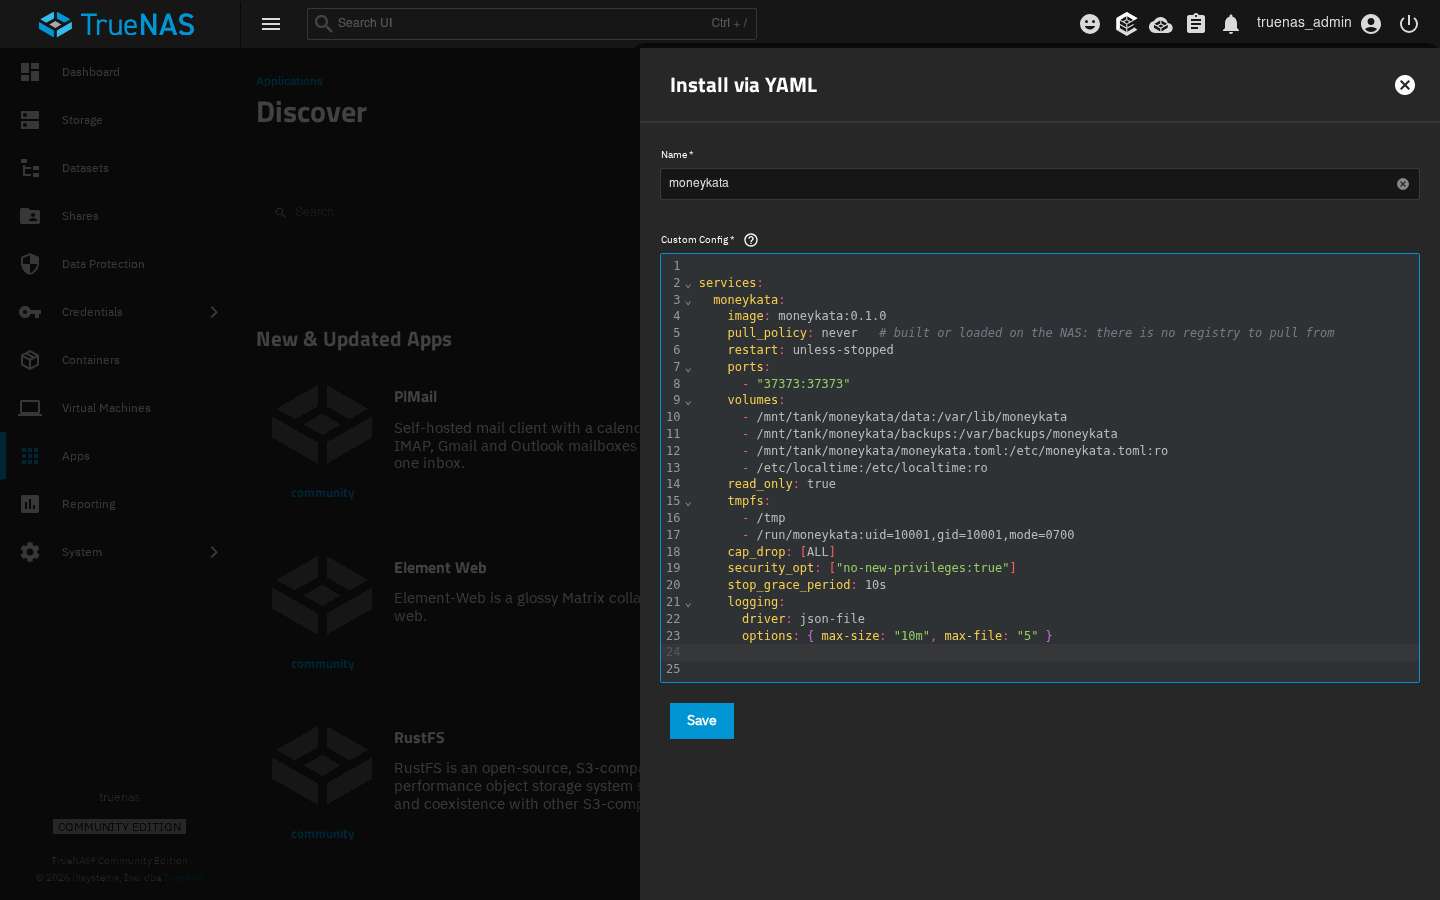
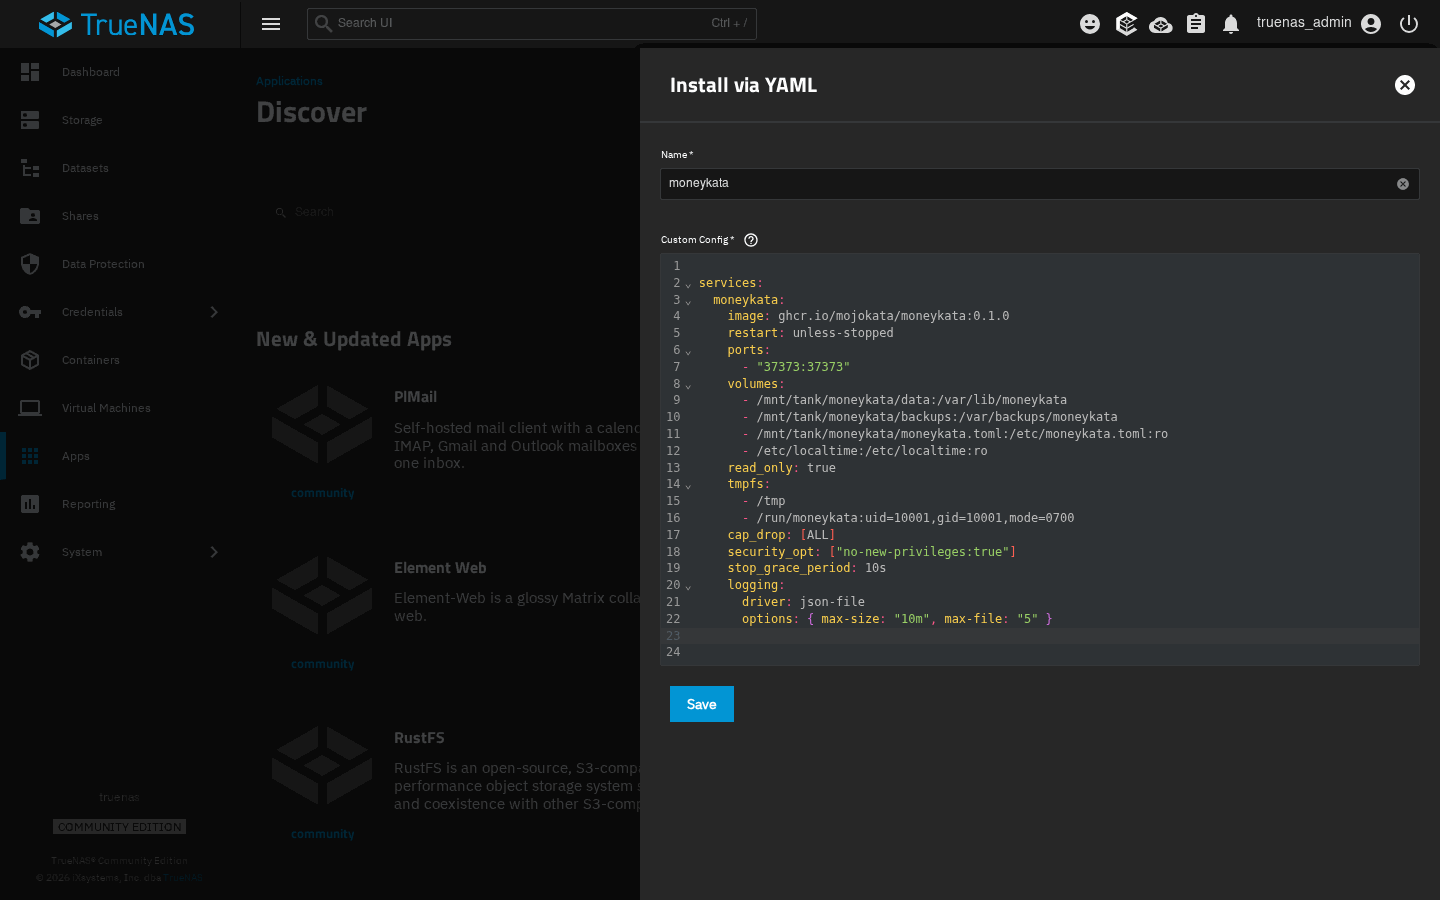
DEPLOY.md: what TrueNAS shows, from a run of §4-7 with the welcome's image
Run on TrueNAS Community Edition 25.10.7 with an image built from this branch: a refused
start beside a database without its keyring (exit 78) and §7's start-over; a fresh install,
Running before anyone opened it; the welcome and Verify key; a reboot, locked and Running,
unlocked with `docker exec … keys unlock`; an Edit of the app's YAML, back locked.

- §4.3: the install doesn't wait for the container; the app shows Running within seconds,
  before the welcome (a new screenshot). The Install via YAML screenshot is retaken with the
  YAML as it stands.
- §6: Edit App YAML shows the YAML as TrueNAS keeps it, its keys sorted: change the tag on
  the `image:` line.
- §7: a refused start shows Stopped, with no container to show the log of: the log is
  `sudo docker logs` in System › Shell, and the line's paths are the container's. Stop and
  Start for starting over are under Controls in the app's row.

web/check: every step ok but the generated mockup's drift, whose crawl timed out on one
screen ("drew nothing in 20 s", no diff); build.py --check run again alone: passed.

Changed region(s): [[0.5, 0.3422, 0.8125, 0.7156], [0.4688, 0.7467, 0.5312, 0.84]]

diff --git a/docs/DEPLOY.md b/docs/DEPLOY.md
@@ -9,9 +9,9 @@ relies on goes behind its reverse proxy instead ([`operations.md`](operations.md
 keys and the connector.
 
 The steps were run on Proxmox VE 9.2 with a Debian 13 guest and Docker Engine 29, and on
-TrueNAS Community Edition 25.10.7, with the image built on each host; their screenshots are from
-those runs, and §5's are from a server built from the same source. A release's images are
-published on ghcr.io (§2), and a host pulls them in place of that build.
+TrueNAS Community Edition 25.10.7, with the image built from the source rather than pulled;
+their screenshots are from those runs, and §5's are from a server built from the same source.
+A release's images are published on ghcr.io (§2), and a host pulls them in place of that build.
 
 ## 1. What you need
 
@@ -253,10 +253,12 @@ services:
 
 ![Install via YAML](deploy/truenas-install-yaml.png)
 
-The install pulls the image (§2) and finishes once the container answers: the app shows
-**Running**. Then open it: the welcome makes its master key and your account (§5). The NAS's
-time zone (**System › General Settings › Localization › Settings**) is the server's, for
-backups and emails.
+The install pulls the image (§2), and the app shows **Running** within seconds, before anyone
+has opened it: Running means it answers, not that it is open (§4.4). Then open it: the welcome
+makes its master key and your account (§5). The NAS's time zone (**System › General Settings ›
+Localization › Settings**) is the server's, for backups and emails.
+
+![The app, Running before the welcome](deploy/truenas-app-running.png)
 
 ### 4.4 Snapshots and restarts
 
@@ -320,7 +322,9 @@ whenever you make a new copy; the yearly alert opens it.
 
 1. Change the image's tag to the new version: in `compose.yaml` on the VM, then
    `docker compose up -d moneykata`, which pulls it; on TrueNAS, **Edit** under **Application
-   Info** opens **Edit App YAML**, and **Save** there pulls it and makes the container again.
+   Info** opens **Edit App YAML**, the YAML as TrueNAS keeps it (its keys in alphabetical
+   order): change the tag on the `image:` line, and **Save** pulls it and makes the container
+   again.
 2. Unlock it (§5). At the unlock the server copies the database aside and migrates it;
    operations.md §3 says how to go back.
 
@@ -328,8 +332,12 @@ whenever you make a new copy; the yearly alert opens it.
 
 - **It won't start**: `docker compose ps` shows it `Restarting`, since it tries again about
   once a minute. `docker compose logs moneykata` shows why, in a line beginning `refusing to
-  start:`; operations.md §5.1 lists the usual causes. On TrueNAS, the app's page lists its
-  container under **Workloads**, and its **View Logs** icon shows the log.
+  start:`; operations.md §5.1 lists the usual causes. On TrueNAS the app shows **Stopped**,
+  turning **Deploying** for a moment at each try, and its page has no container to show the
+  log of: in **System › Shell**, `sudo docker logs --tail 5 ix-moneykata-moneykata-1` shows
+  the line. Its paths are the container's: `/var/lib/moneykata` is `data` (on TrueNAS, the
+  `data` dataset), `/var/backups/moneykata` is `backups`, and `/etc/moneykata.toml` is the
+  configuration.
 - **The page won't load**: it is `https://`, on port 37373. A browser that refuses the
   certificate outright was given an address the certificate doesn't name: add it under
   `[tls] names` and restart; the server makes a new certificate.
@@ -341,8 +349,8 @@ whenever you make a new copy; the yearly alert opens it.
   and the server refuses to start beside it. On the VM, in `~/moneykata`:
   `docker compose stop moneykata`, then
   `sudo find data backups -mindepth 1 -delete` and `docker compose up -d moneykata`. On
-  TrueNAS: the app's **Stop**, then in **System › Shell**
+  TrueNAS: **Stop** (■ under **Controls**, in the app's row), then in **System › Shell**
   `sudo find /mnt/tank/moneykata/data /mnt/tank/moneykata/backups -mindepth 1 -delete`,
-  and **Start**.
+  and **Start** in the same place.
 - **A lost phrase**: a running, unlocked server can still make a new one,
   `keys rotate` (operations.md §7). Once it restarts without one, nothing opens the data.
